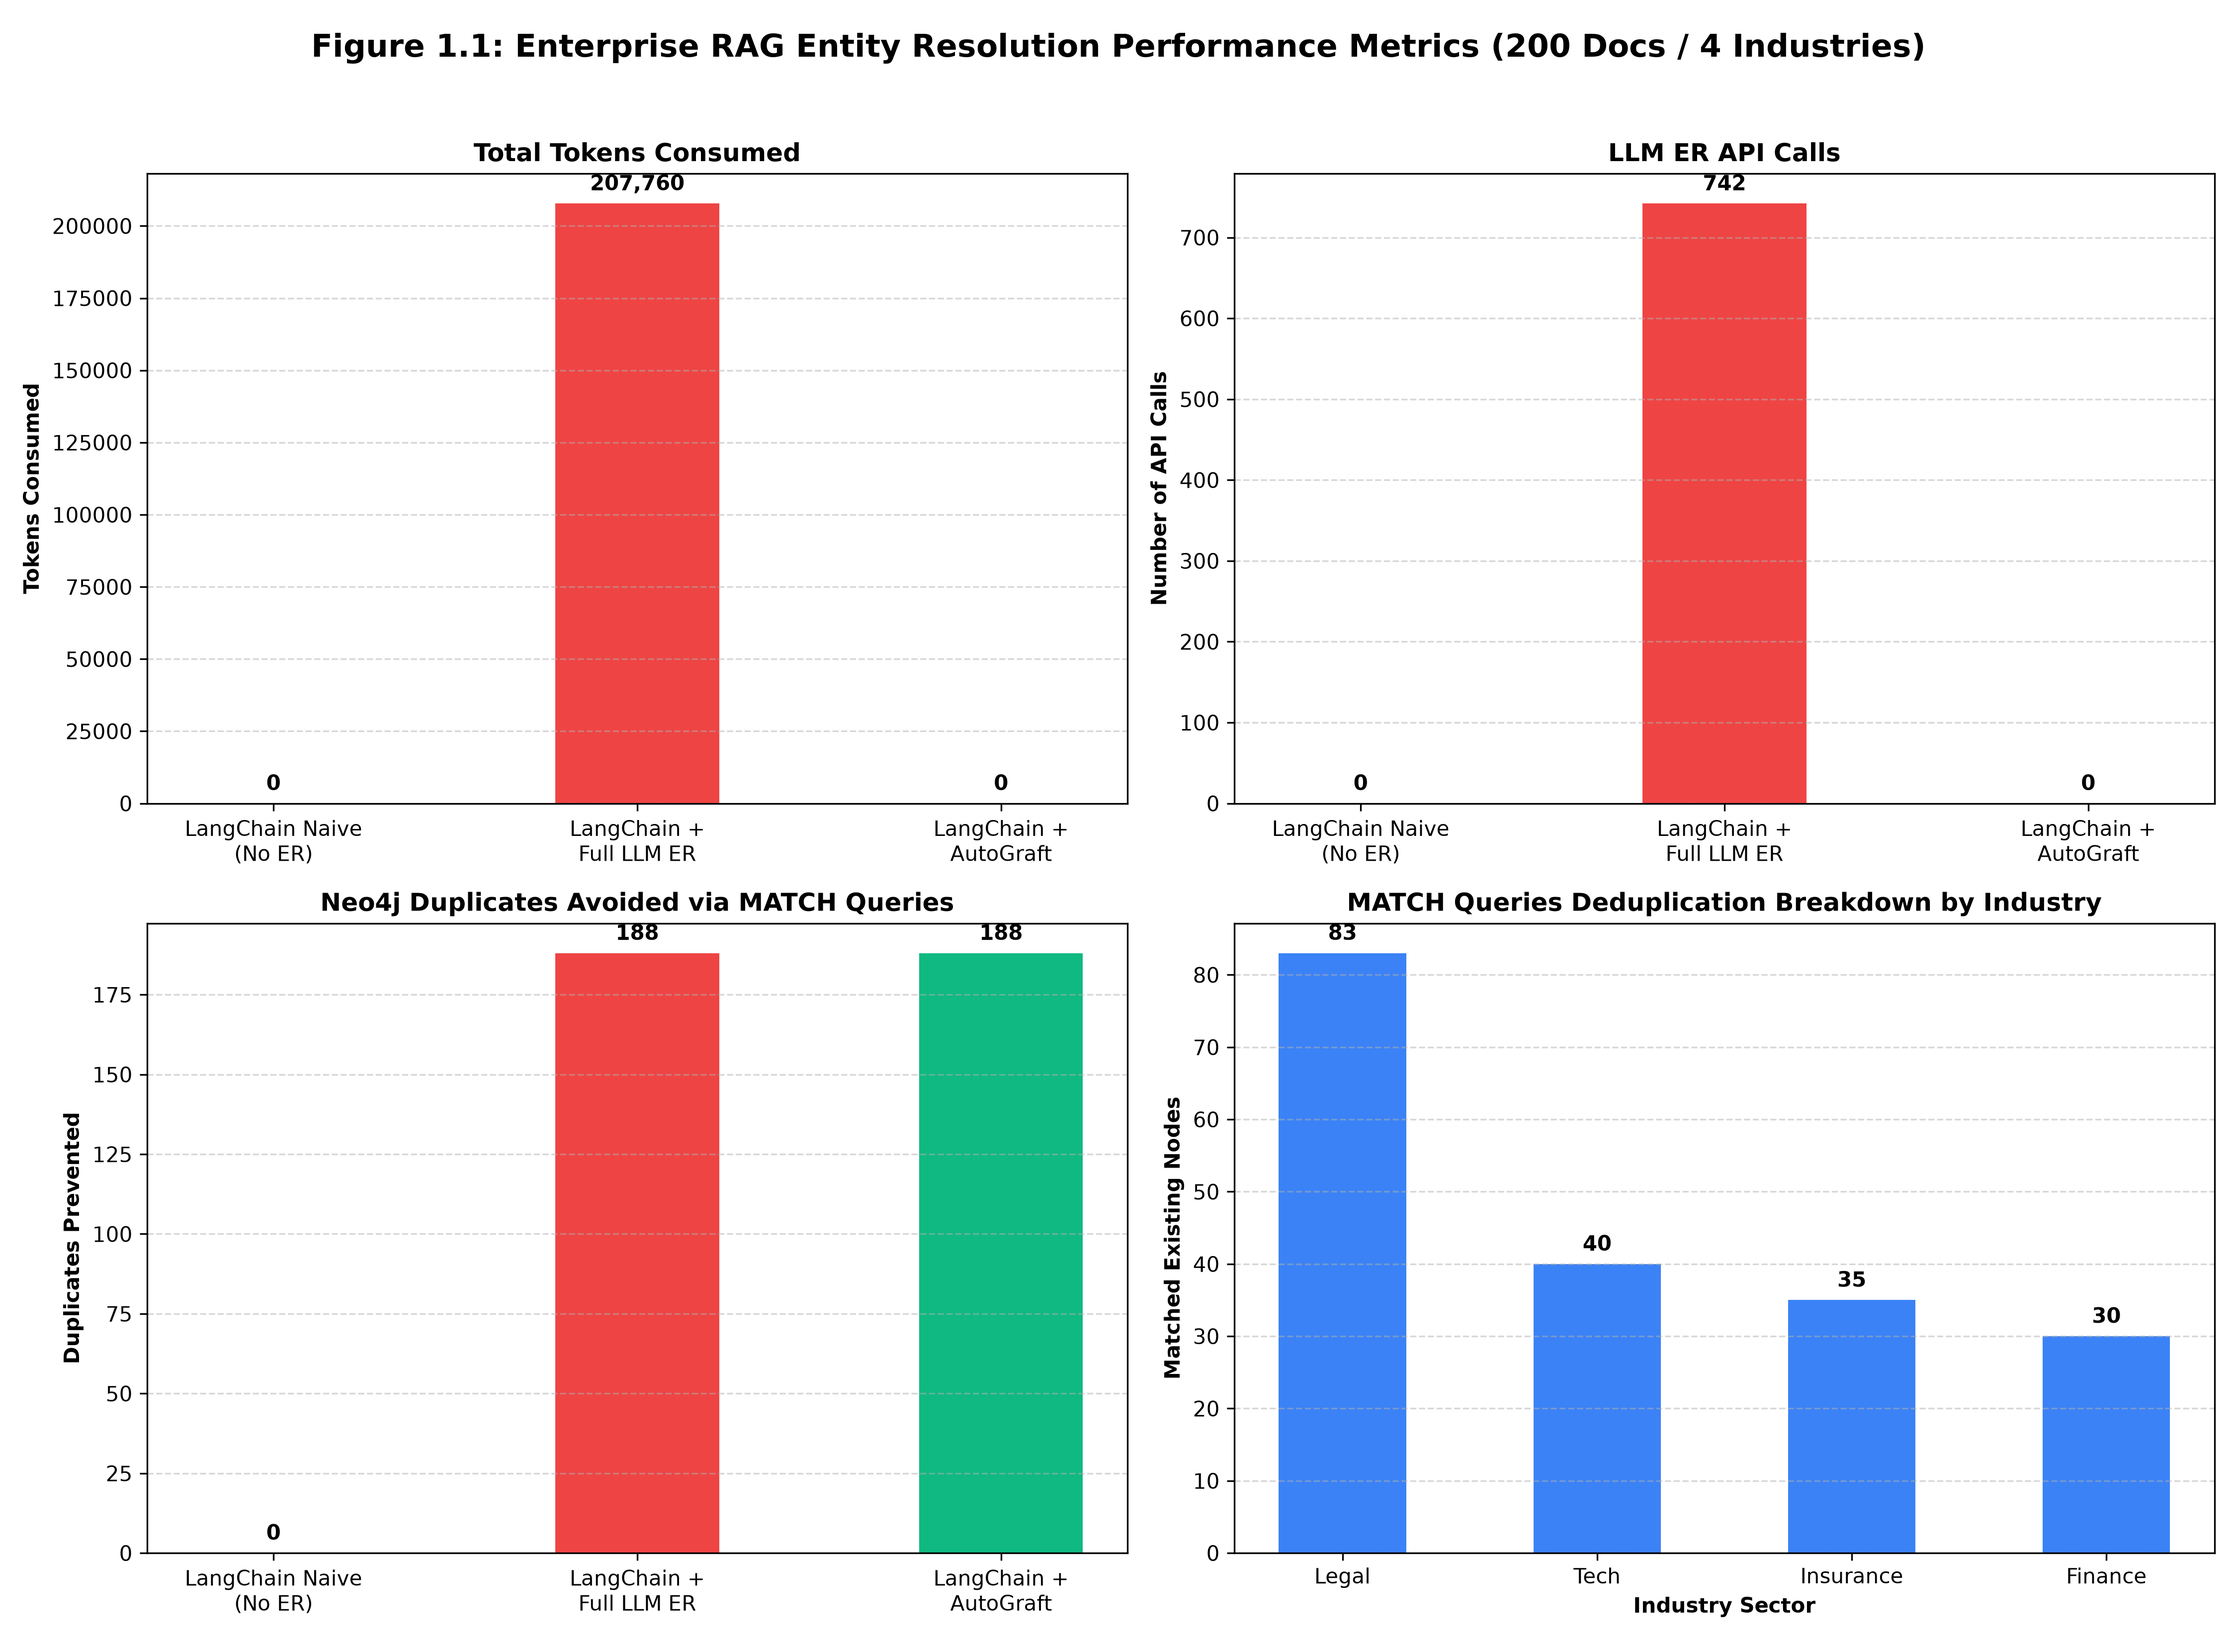
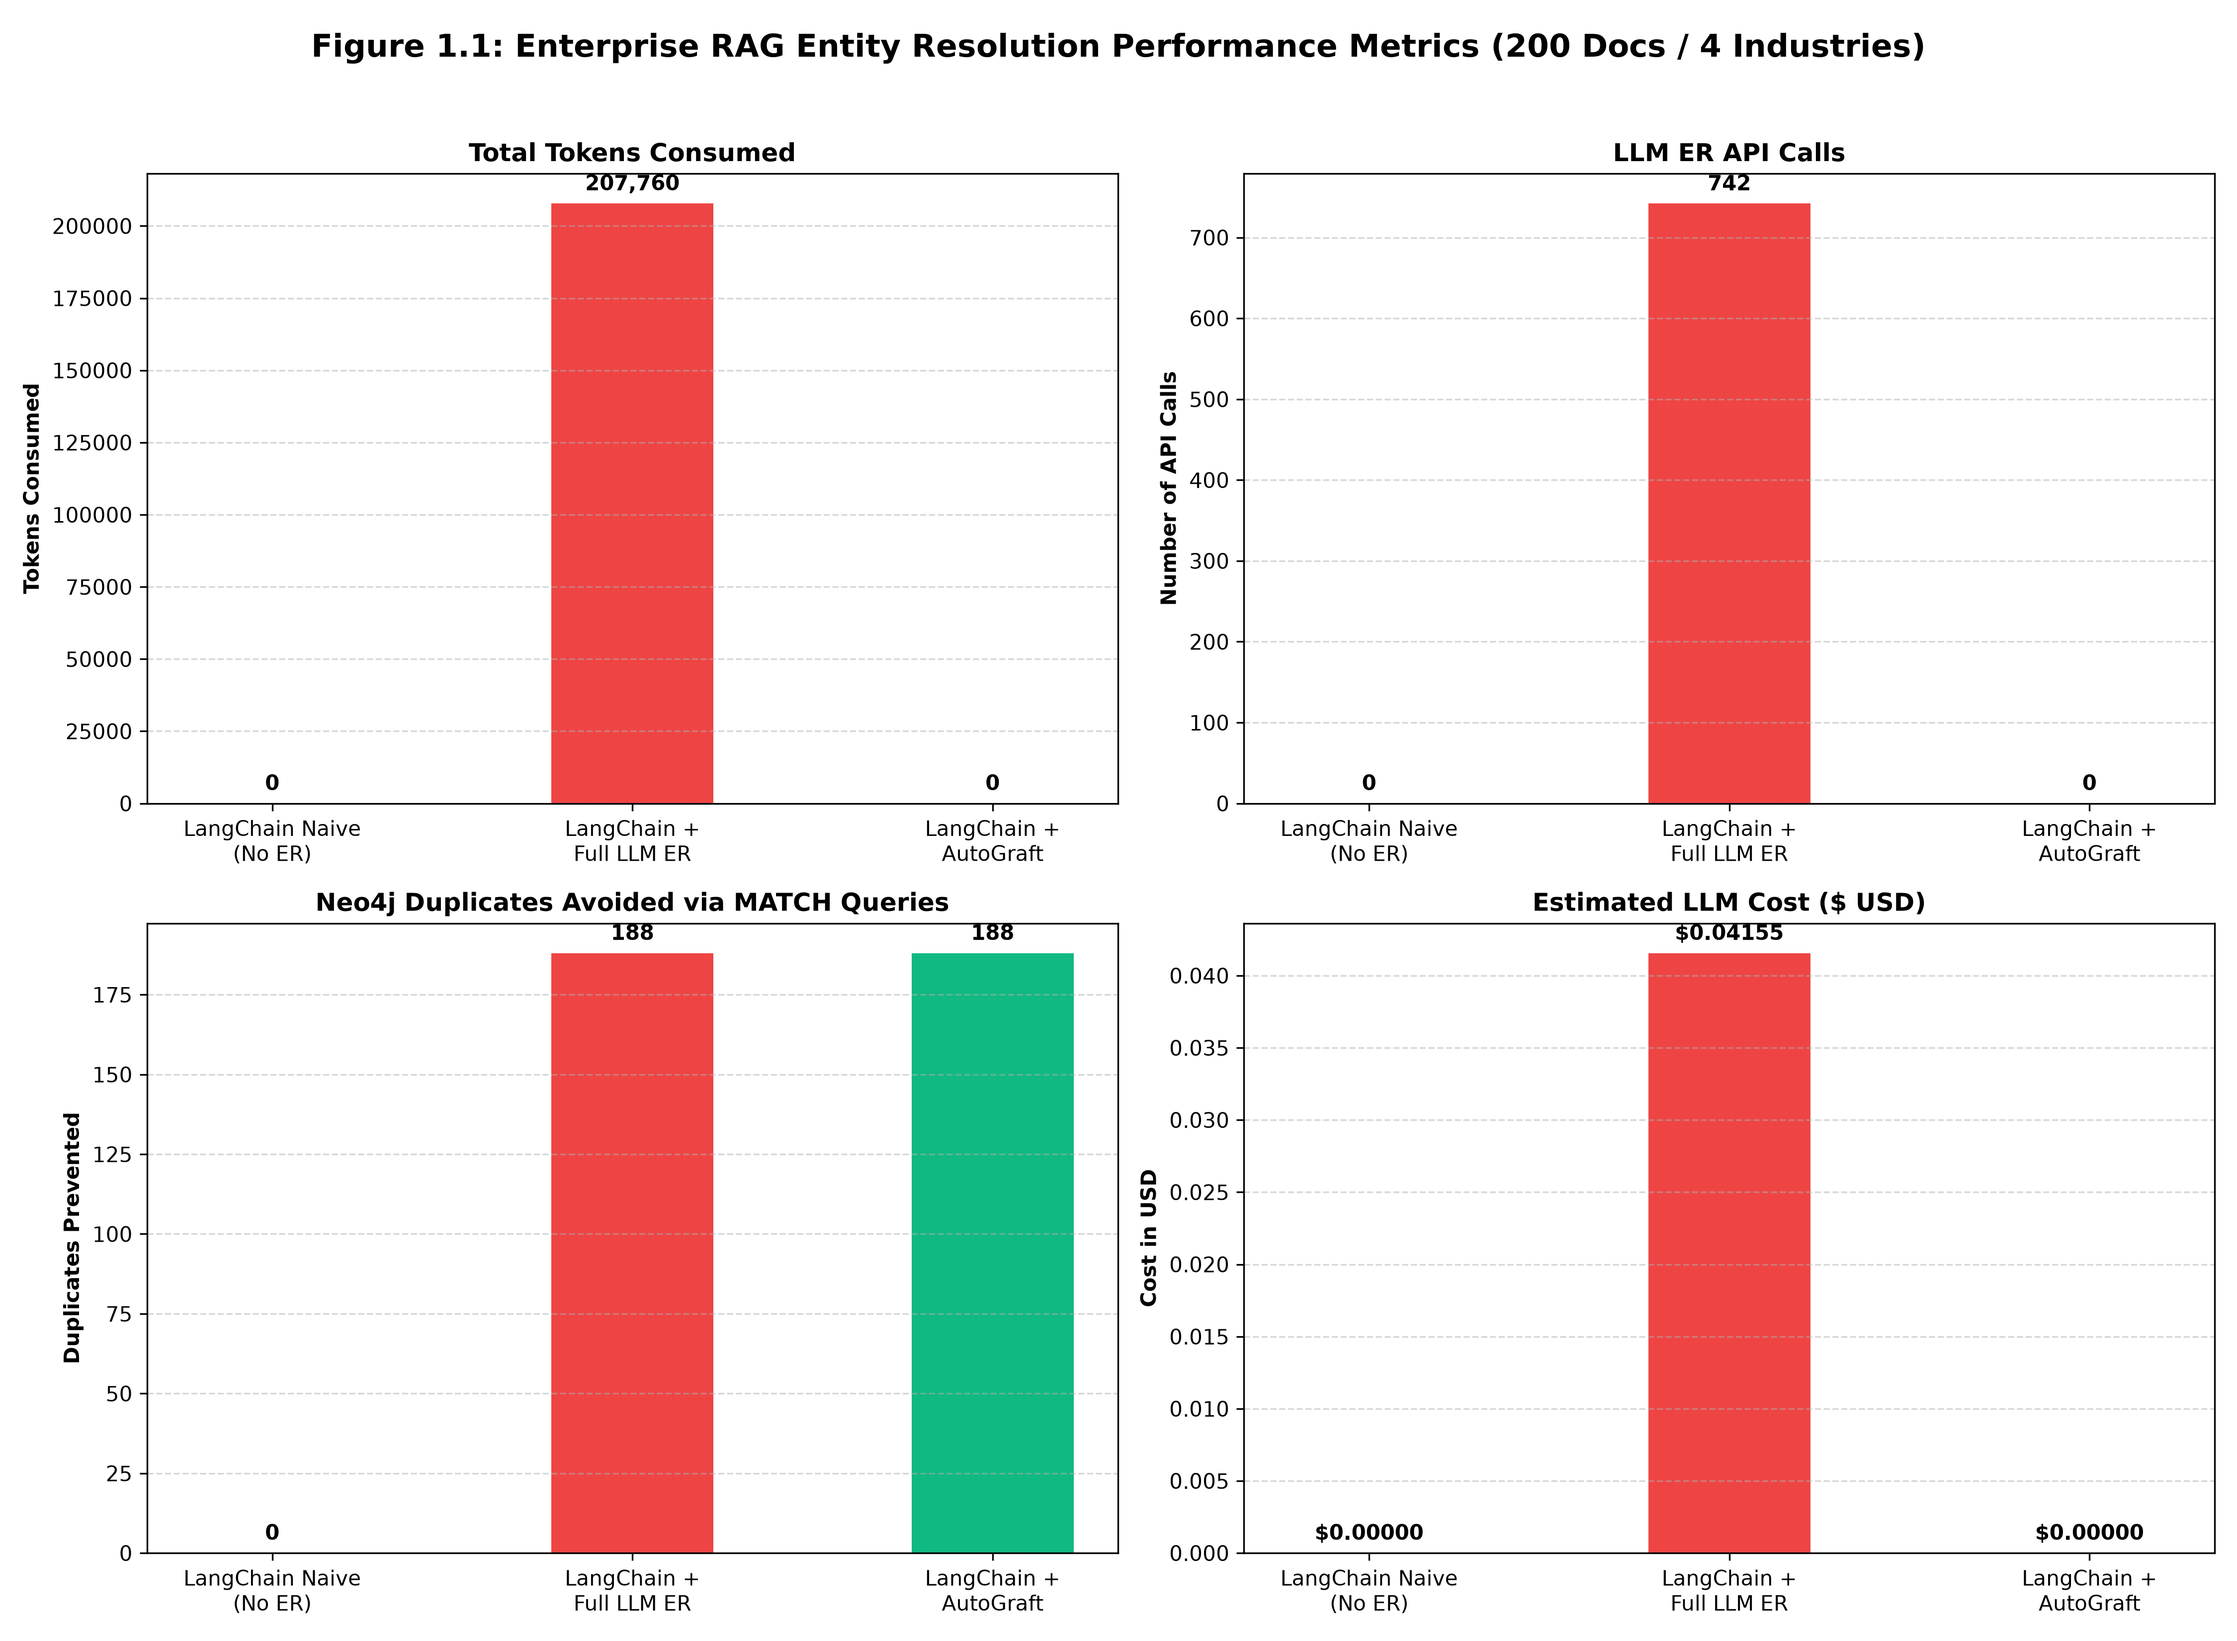
docs: replace matches by industry chart with cost comparison chart and update benchmark generation script

diff --git a/benchmark/run_macro_benchmark.py b/benchmark/run_macro_benchmark.py
@@ -111,14 +111,32 @@ def run_macro_benchmark() -> None:
         "=========================================================================",
         f"Total Processed Documents   : {total_docs}",
         f"Total Extracted Entities    : {lc_calls_total}",
-        f"LangChain LLM ER Calls      : {lc_calls_total} calls",
-        f"AutoGraft LLM ER Calls      : {ag_calls_total} calls (100% Local Short-Circuiting)",
-        f"Duplicates Avoided (MATCH)  : {total_matches} queries",
-        f"New Entities Created (MERGE): {total_merges} queries",
-        f"Tokens Consumed (LangChain) : {lc_tokens_total:,} tokens",
-        f"Tokens Consumed (AutoGraft) : {ag_tokens_total:,} tokens (100% Savings)",
-        f"Estimated Cost (LangChain)  : ${lc_cost:.5f}",
-        f"Estimated Cost (AutoGraft)  : ${ag_cost:.5f}",
+        "",
+        "--- LLM ER API CALLS ---",
+        f"LangChain Naive (No ER)     : 0 calls",
+        f"LangChain + Full LLM ER     : {lc_calls_total} calls",
+        f"LangChain + AutoGraft       : {ag_calls_total} calls (100% Local Short-Circuiting)",
+        "",
+        "--- TOKENS CONSUMED ---",
+        f"LangChain Naive (No ER)     : 0 tokens",
+        f"LangChain + Full LLM ER     : {lc_tokens_total:,} tokens",
+        f"LangChain + AutoGraft       : {ag_tokens_total:,} tokens (100% Savings)",
+        "",
+        "--- DUPLICATES AVOIDED (MATCH) ---",
+        f"LangChain Naive (No ER)     : 0 queries (WARNING: Creates {total_matches} duplicates)",
+        f"LangChain + Full LLM ER     : {total_matches} queries",
+        f"LangChain + AutoGraft       : {total_matches} queries",
+        "",
+        "--- NEW ENTITIES CREATED (MERGE) ---",
+        f"LangChain Naive (No ER)     : {total_matches + total_merges} queries",
+        f"LangChain + Full LLM ER     : {total_merges} queries",
+        f"LangChain + AutoGraft       : {total_merges} queries",
+        "",
+        "--- ESTIMATED COST ---",
+        f"LangChain Naive (No ER)     : $0.00000",
+        f"LangChain + Full LLM ER     : ${lc_cost:.5f}",
+        f"LangChain + AutoGraft       : ${ag_cost:.5f}",
+        "",
         f"Execution Time              : {elapsed_time:.2f} seconds",
         "=========================================================================",
     ]

diff --git a/benchmark/macro_charts.py b/benchmark/macro_charts.py
@@ -45,17 +45,16 @@ def generate_macro_charts(
         h = bar.get_height()
         axes[1, 0].annotate(f"{int(h)}", (bar.get_x() + bar.get_width() / 2, h), ha="center", va="bottom", xytext=(0, 4), textcoords="offset points", fontweight="bold")
 
-    # 4. MATCH Queries by Industry
-    ind_names = list(industry_metrics.keys())
-    match_by_ind = [industry_metrics[ind]["matches"] for ind in ind_names]
-    bars4 = axes[1, 1].bar(ind_names, match_by_ind, color="#3B82F6", width=0.5)
-    axes[1, 1].set_title("MATCH Queries Deduplication Breakdown by Industry", fontweight="bold")
-    axes[1, 1].set_xlabel("Industry Sector", fontweight="bold")
-    axes[1, 1].set_ylabel("Matched Existing Nodes", fontweight="bold")
+    # 4. Estimated LLM Cost ($ USD)
+    lc_cost = (total_lc_tokens / 1_000_000) * 0.20
+    ag_cost = (total_ag_tokens / 1_000_000) * 0.20
+    bars4 = axes[1, 1].bar(labels, [0.0, lc_cost, ag_cost], color=colors, width=0.45)
+    axes[1, 1].set_title("Estimated LLM Cost ($ USD)", fontweight="bold")
+    axes[1, 1].set_ylabel("Cost in USD", fontweight="bold")
     axes[1, 1].grid(axis="y", linestyle="--", alpha=0.5)
     for bar in bars4:
         h = bar.get_height()
-        axes[1, 1].annotate(f"{int(h)}", (bar.get_x() + bar.get_width() / 2, h), ha="center", va="bottom", xytext=(0, 4), textcoords="offset points", fontweight="bold")
+        axes[1, 1].annotate(f"${h:.5f}", (bar.get_x() + bar.get_width() / 2, h), ha="center", va="bottom", xytext=(0, 4), textcoords="offset points", fontweight="bold")
 
     plt.tight_layout(rect=[0, 0, 1, 0.96])
     plt.savefig("benchmark/assets/macro_benchmark_metrics.png", dpi=300)
@@ -88,6 +87,7 @@ def generate_macro_charts(
 
     # Figure 1.3: Accuracy Breakdown by Industry Chart
     fig, ax = plt.subplots(figsize=(9, 5))
+    ind_names = list(industry_metrics.keys())
     ind_scores = [industry_metrics[ind]["accuracy"] for ind in ind_names]
     bars = ax.bar(ind_names, ind_scores, color="#10B981", width=0.5)
     ax.set_ylim(0, 115)

diff --git a/BENCHMARK.md b/BENCHMARK.md
@@ -45,7 +45,7 @@ The macro benchmark suite evaluates **200 real-world enterprise documents** acro
 - **Top-Left (Total Tokens Consumed)**: LangChain Naive and AutoGraft consume 0 resolution tokens, while Full LLM ER consumes 207,760 tokens.
 - **Top-Right (LLM ER API Calls)**: LangChain Naive and AutoGraft make 0 API calls, while Full LLM ER makes 742 external API calls.
 - **Bottom-Left (Neo4j Duplicates Avoided)**: LangChain Naive creates 188 duplicates (0 avoided), while Full LLM ER and AutoGraft resolve all 188 duplicates.
-- **Bottom-Right (MATCH Queries by Industry)**: Industry breakdown of deduplication queries resolved locally across Legal (83), Tech (40), Insurance (35), and Finance (30).
+- **Bottom-Right (Estimated LLM Cost)**: Compares the Entity Resolution financial cost. LangChain Naive costs $0 (but fails to deduplicate), Full LLM ER costs $0.04155, and AutoGraft costs $0 (while perfectly deduplicating the graph).
 
 #### Figure 1.2: Enterprise Knowledge Graph Cost Scaling (Up to 1,000,000 Documents)
 ![Figure 1.2: Linear Financial Cost Scaling Projection up to 1,000,000 Documents](benchmark/assets/macro_cost_scaling_1m.png)

diff --git a/README.md b/README.md
@@ -40,7 +40,7 @@ Evaluated across **200 real-world enterprise documents** spanning 4 key scenario
 - **Top-Left (Total Tokens Consumed)**: LangChain Naive and AutoGraft consume 0 resolution tokens, while Full LLM ER consumes 207,760 tokens.
 - **Top-Right (LLM ER API Calls)**: LangChain Naive and AutoGraft make 0 API calls, while Full LLM ER makes 742 external API calls.
 - **Bottom-Left (Neo4j Duplicates Avoided)**: LangChain Naive creates 188 duplicates (0 avoided), while Full LLM ER and AutoGraft resolve all 188 duplicates.
-- **Bottom-Right (MATCH Queries by Industry)**: Industry breakdown of deduplication queries resolved locally across Legal (83), Tech (40), Insurance (35), and Finance (30).
+- **Bottom-Right (Estimated LLM Cost)**: Compares the Entity Resolution financial cost. LangChain Naive costs $0 (but fails to deduplicate), Full LLM ER costs $0.04155, and AutoGraft costs $0 (while perfectly deduplicating the graph).
 
 ---
 
